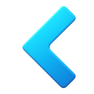
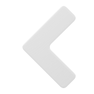
fixed carrusel bugs, fixed bug navbar modal,fixed not update info from service page ,changed styles advertisingCard

Changed region(s): [[0.234, 0.0638, 0.8085, 0.9362]]

diff --git a/src/components/advertising/advertising.module.scss b/src/components/advertising/advertising.module.scss
@@ -2,29 +2,69 @@
   position: relative;
   width: 100%;
   text-align: center;
+  transition: 0.5s;
+  z-index: 10;
+  
   h4 {
     width: 100%;
     position: absolute;
     top: 5%;
     font-size: x-large;
+    transition: 0.8s;
 
   }
   .coverImage {
     cursor: pointer;
-    background-image: linear-gradient(to bottom, rgba(19, 19, 19, 1), rgba(255, 255, 255, 0.5),rgba(0, 0, 0, 0.5));
+    background-image: linear-gradient(to bottom, rgb(8, 8, 8),rgba(0, 0, 0, 0));
     position: absolute;
     width: 100%;
     height: 100%;
     left: 0;
-    transition: 0.5s;
-  }
-  .coverImage:hover  {
-    background-color: rgba(247, 247, 247, 0.5);
-    transform: scale(1.02);
-    transition: 0.5s;
+    opacity: 0.9;
+    border-radius: 0.5rem;
+    transition: 1s;
   }
 
+  .containerSummary{
+    opacity: 0;
+    position: absolute;
+    transform: translate(0,-100%);
+    border-radius: 0.1rem;
+    transition: 0.5s ;
+  }
+  
   img{
   width: 100%;
+  border-radius: 0.5rem;
+
+  }
+}
+
+.containerCard:hover {
+  transform: scale(110%);
+  transition: 0.5s;
+  .containerSummary{
+    display: block;
+    color: black;
+    background-color: white;
+    position: absolute;
+    padding: 5%;
+    text-align: left;
+    opacity: 1;
+    transform: translate(0,-80%);
+    z-index: 500;
+    transition: 0.5s ;
+
+  }
+  .coverImage {
+    background-image: linear-gradient(to bottom, rgb(241, 241, 241), rgba(243, 240, 240, 0.5),rgba(0, 0, 0, 0.5));
+    opacity: 1;
+    transition: 1s;
+  }
+  h4 {
+    color: rgb(46, 46, 46);
+    text-shadow: 2px 2px 4px rgba(0, 0, 0, 0.5);
+    transition: 0.8s;
+
   }
 }

diff --git a/src/pages/serviceDetail/[idService].tsx b/src/pages/serviceDetail/[idService].tsx
@@ -7,6 +7,7 @@ import Link from "next/link";
 import Sections from "@/components/sections/sections";
 import AsideNavigation from "@/components/asideNavigation/asideNavigation";
 import SubServices from "@/components/subServices/subServices";
+import { useEffect } from "react";
 
 const initialHook = {
   url: "http://localhost:3001/services/getServices/detail",
@@ -16,7 +17,6 @@ const initialHook = {
 export default function AdvertisingDetail() {
   const router = useRouter();
   const orientation = String(router.query.idService);
-  // console.log(orientation, "a verrrrrrrrrrr");
 
   const initialHookDetail = {
     ...initialHook,
@@ -25,16 +25,17 @@ export default function AdvertisingDetail() {
     },
   };
 
-  const { data: service } = useMakeRequest<
+  const { data: service, reload } = useMakeRequest<
     null,
     GetServiceWithOrientation,
     ResToGetDetailServices
   >(initialHookDetail);
-  // console.log(service);
+
+  useEffect(() => reload(), [orientation]); //Es para que vuelva hacer la request
 
   return (
     <div className={styles.container}>
-      <SubServices pageSize={null}/>
+      <SubServices pageSize={null} />
       <Link href="/allSubServices" className={styles.viewAll}>
         <span>Ver todos</span>
       </Link>

diff --git a/src/components/carrousel/carrouselCard.tsx b/src/components/carrousel/carrouselCard.tsx
@@ -1,9 +1,9 @@
 import SwitchComponent from "../switchComponent/switchComponent";
 import styles from "./carrouselCard.module.scss";
 const arrowL =
-  "https://res.cloudinary.com/dynnwv7md/image/upload/v1690828738/arrowL_bvpxsh.png";
+  "https://res.cloudinary.com/dynnwv7md/image/upload/v1690897372/arrowL_ihe1hv.png";
 const arrowR =
-  "https://res.cloudinary.com/dynnwv7md/image/upload/v1690828738/arrowR_volhkq.png";
+  "https://res.cloudinary.com/dynnwv7md/image/upload/v1690897366/arrowR_mpxuso.png";
 
 interface P {
   image: string;
@@ -14,8 +14,8 @@ export default function CarrouselCard({ image, index, length }: P) {
   console.log(index);
 
   return (
-    <div className={styles.container} id={`carrouselCard-${index}`}>
-      <div className={styles.containerButtons}>
+    <div className={styles.container}>
+      <div className={styles.containerButtons} id={`carrouselCard-${index}`}>
         {SwitchComponent(
           !!index,
           <a href={`#carrouselCard-${index - 1}`}>

diff --git a/src/pages/_app.tsx b/src/pages/_app.tsx
@@ -1,12 +1,23 @@
 import NavBar from "@/components/navBar/navBar";
 import "@/styles/globals.css";
+import { Auth0Provider } from "@auth0/auth0-react";
 import type { AppProps } from "next/app";
-
+import getConfig from "../utils/config";
+const config = getConfig();
+const providerConfig = {
+  domain: config.domain,
+  clientId: config.clientId,
+  authorizationParams: {
+    redirect_uri: "http://localhost:3000/",
+  },
+};
 export default function App({ Component, pageProps }: AppProps) {
   return (
     <>
-      <NavBar />
-      <Component {...pageProps} />
+      <Auth0Provider {...providerConfig}>
+        <NavBar />
+        <Component {...pageProps} />
+      </Auth0Provider>
     </>
   );
 }

diff --git a/src/components/carrousel/carrouselCard.module.scss b/src/components/carrousel/carrouselCard.module.scss
@@ -1,7 +1,7 @@
 .container {
   height: 100%;
   width: 100%;
-  display: flex;
+
   .containerButtons{
     position: absolute;
     z-index: 10;
@@ -12,18 +12,24 @@
     justify-content: space-between;
     align-items:center;
     transition: 0.5s;
+  }
+  .containerButtons a img{
+    width: 70px;
+    transition: 0.5s;
 
   }
-  .containerButtons:hover {
+  .containerButtons a img:hover {
     cursor: pointer;
+    padding: 5%;
+    transform: scale(1.02);
     transition: 0.5s;
-    transform: scale(1.01);
   }
   .imageItem {
     position: absolute;
+    border-radius: 1rem;
     object-fit:cover;    
     width: 100%;
     height: 100%;
-    border-radius: 0.5rem;
+    padding: 5%;
   }
 }

diff --git a/src/components/carrousel/carrousel.tsx b/src/components/carrousel/carrousel.tsx
@@ -3,8 +3,8 @@ import CarrouselCard from "./carrouselCard";
 
 export default function Carrousel() {
   const images = [
-    "https://res.cloudinary.com/dynnwv7md/image/upload/v1689200965/sample.jpg",
-    "https://res.cloudinary.com/dynnwv7md/image/upload/v1689178389/IMG_6928_i0vvvd.jpg",
+    "https://res.cloudinary.com/dynnwv7md/image/upload/v1681742262/wwvprdwxtbswm31inkdx.jpg",
+    "https://res.cloudinary.com/dynnwv7md/image/upload/v1681742277/u6y8lwmoxwwn2rezuuxh.jpg",
     "https://res.cloudinary.com/dynnwv7md/image/upload/v1689173737/dadAndBrother_fduowp.jpg",
     "https://res.cloudinary.com/dynnwv7md/image/upload/v1689177607/IMG_4605_htqllc.jpg",
   ];

diff --git a/src/components/advertising/advertising.tsx b/src/components/advertising/advertising.tsx
@@ -8,14 +8,17 @@ interface P {
 }
 
 export default function Advertising({ advertising }: P) {
-  const { id, title, image } = advertising;
+  const { id, title, image, summary } = advertising;
   return (
-    <div key={id} className={styles.containerCard}>
+    <article key={id} className={styles.containerCard}>
       <Link href={`/advertisingDetail/${id}`}>
         <span className={styles.coverImage}></span>
       </Link>
       <ShowImage idImage={image} type="thumbnail" />
       <h4>{title}</h4>
-    </div>
+      <section className={styles.containerSummary}>
+        <p>{summary}</p>
+      </section>
+    </article>
   );
 }

diff --git a/src/pages/advertisingDetail/[idAdvertising].tsx b/src/pages/advertisingDetail/[idAdvertising].tsx
@@ -24,9 +24,10 @@ export default function AdvertisingDetail() {
   >(initialHookDetail);
   return (
     <div className={styles.container}>
+      <Carrousel />
       {advertising && (
         <>
-          <ShowImage idImage={advertising.data.image} type="cover" />
+          {/* <ShowImage idImage={advertising.data.image} type="cover" /> */}
           <h4 className={styles.title}>{advertising?.data.title}</h4>
           <div className={styles.data}>
             <AsideNavigation sectionsData={advertising.data.SectionsViews} />

diff --git a/src/components/navBar/navBar.tsx b/src/components/navBar/navBar.tsx
@@ -2,12 +2,11 @@ import { useStylesClick } from "@/customHooks/useStylesClick";
 import styles from "./navBar.module.scss";
 import Link from "next/link";
 
-//className={styles.}
 export default function NavBar() {
   const { style, changeStyles } = useStylesClick({
     styles: styles,
-    first: "listShow",
-    second: "listHiden",
+    first: "listHiden",
+    second: "listShow",
   });
   //!esto tengo que mejorar
   return (

diff --git a/src/pages/prueba/index.tsx b/src/pages/prueba/index.tsx
@@ -1,10 +1,13 @@
 import Carrousel from "@/components/carrousel/carrousel";
 import LoadImages from "../../components/loadImage/loadImage";
+import { useAuth0 } from "@auth0/auth0-react";
 
 export default function index() {
+  const { loginWithPopup } = useAuth0();
   return (
     <div>
       <Carrousel />
+      <button onClick={() => loginWithPopup()}>Inicio session</button>
       <LoadImages />
     </div>
   );

diff --git a/src/customHooks/useStylesClick.ts b/src/customHooks/useStylesClick.ts
@@ -11,8 +11,6 @@ export  const useStylesClick = ({ styles, first, second }: UseStyleParams) => {
   const flag = useRef(true);
   const [style, setStyle] = useState(styles[first]);
   const changeStyles = () => {
-    console.log(firstOption, secondOption);
-
     if (flag.current) {
       setStyle(secondOption);
       flag.current = false;

diff --git a/src/utils/config.js b/src/utils/config.js
@@ -1,0 +1,14 @@
+// import enviroment from 'dotenv';
+// enviroment.config()
+// const {DOMAIN,CLIENT_ID }= process.env
+import configJson from "../auth_config.json";
+
+export default function getConfig() {
+
+  return {
+    domain: configJson.domain,
+    clientId: configJson.clientId
+  };
+}
+
+
